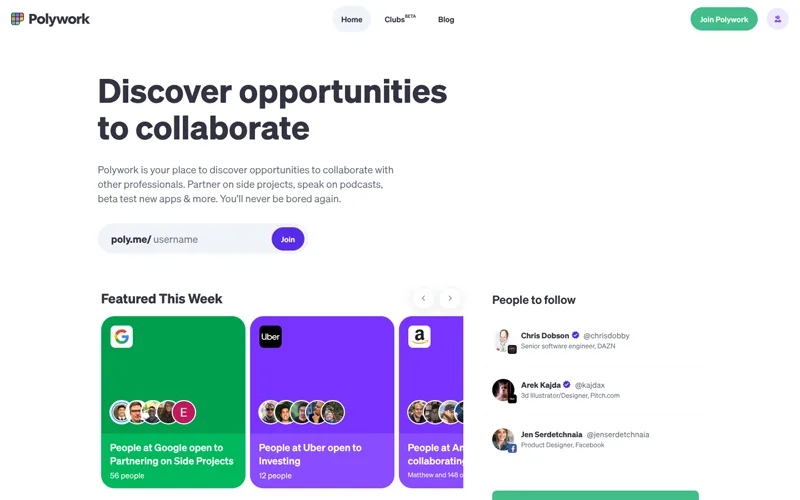
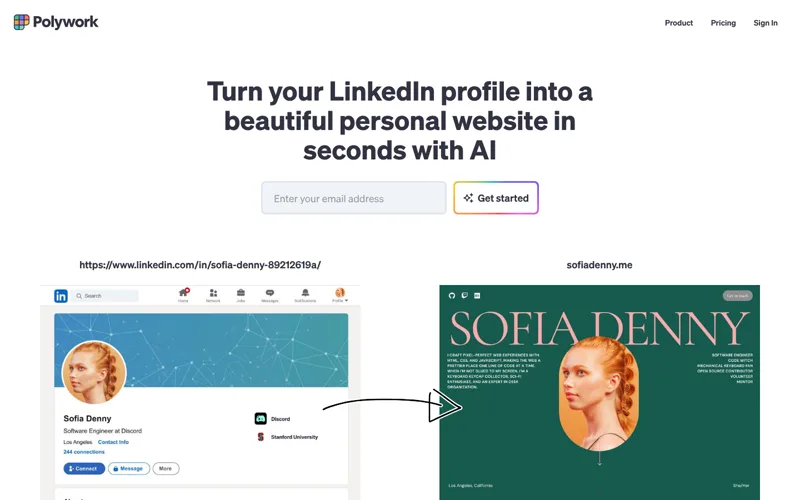
fix: show Polywork as it was in 2024 and list it second (#34)
* fix: show Polywork as it was in 2024

The AI website builder Polywork became in 2024 is the product I
advised on, so the card now shows the December 2024 Wayback Machine
snapshot instead of the 2023 professional network.

* feat: lead Public projects with ILO and Polywork

The order is now ILO Live, Polywork, Zero Malaria, Malaria No More UK
and Constellr, so the collapsed preview opens on ILO and Polywork.

---------

diff --git a/src/content.js b/src/content.js
@@ -156,6 +156,12 @@ export const selectedWork = [
     archive: { year: 2024, href: 'https://web.archive.org/web/20241213014757/https://live.ilo.org/' },
   },
   {
+    id: 'polywork',
+    name: 'Polywork',
+    what: 'AI website builder I advised',
+    archive: { year: 2024, href: 'https://web.archive.org/web/20241201210418/https://www.polywork.com/' },
+  },
+  {
     id: 'zero-malaria',
     name: 'Zero Malaria',
     what: 'campaign site',
@@ -174,11 +180,5 @@ export const selectedWork = [
     what: 'satellite data company',
     live: 'https://www.constellr.com/',
     archive: { year: 2024, href: 'https://web.archive.org/web/20241213045146/https://www.constellr.com/' },
-  },
-  {
-    id: 'polywork',
-    name: 'Polywork',
-    what: 'professional network I advised',
-    archive: { year: 2023, href: 'https://web.archive.org/web/20230601034044/https://www.polywork.com/' },
   },
 ]
